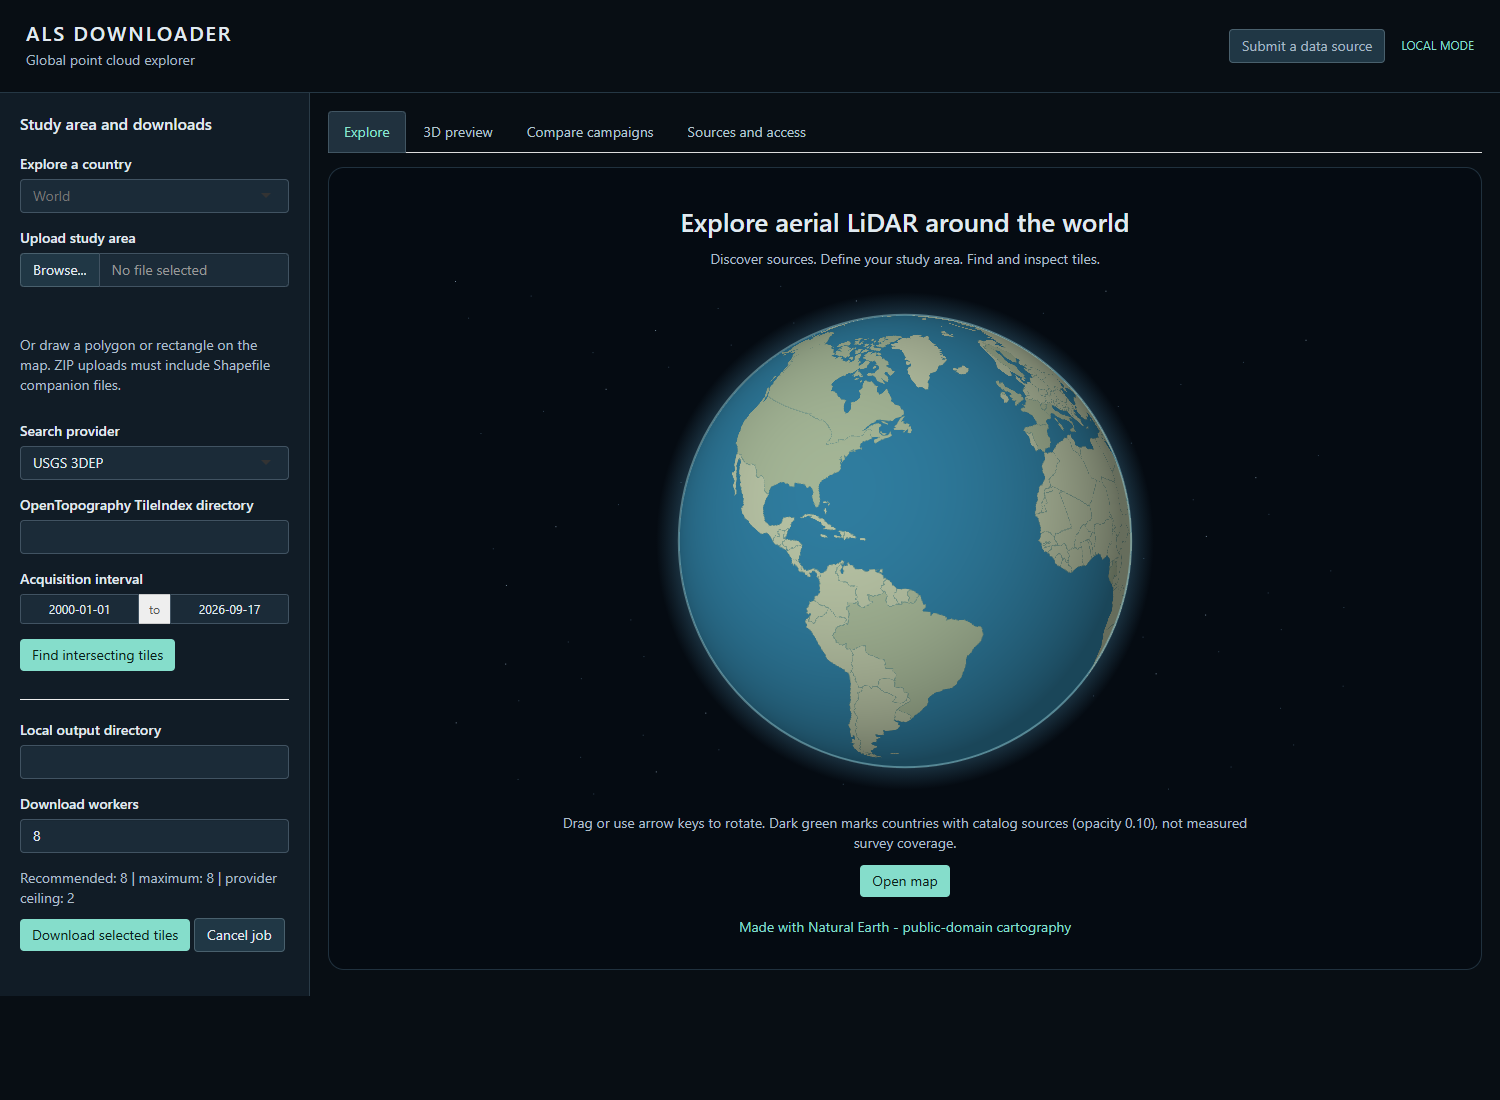
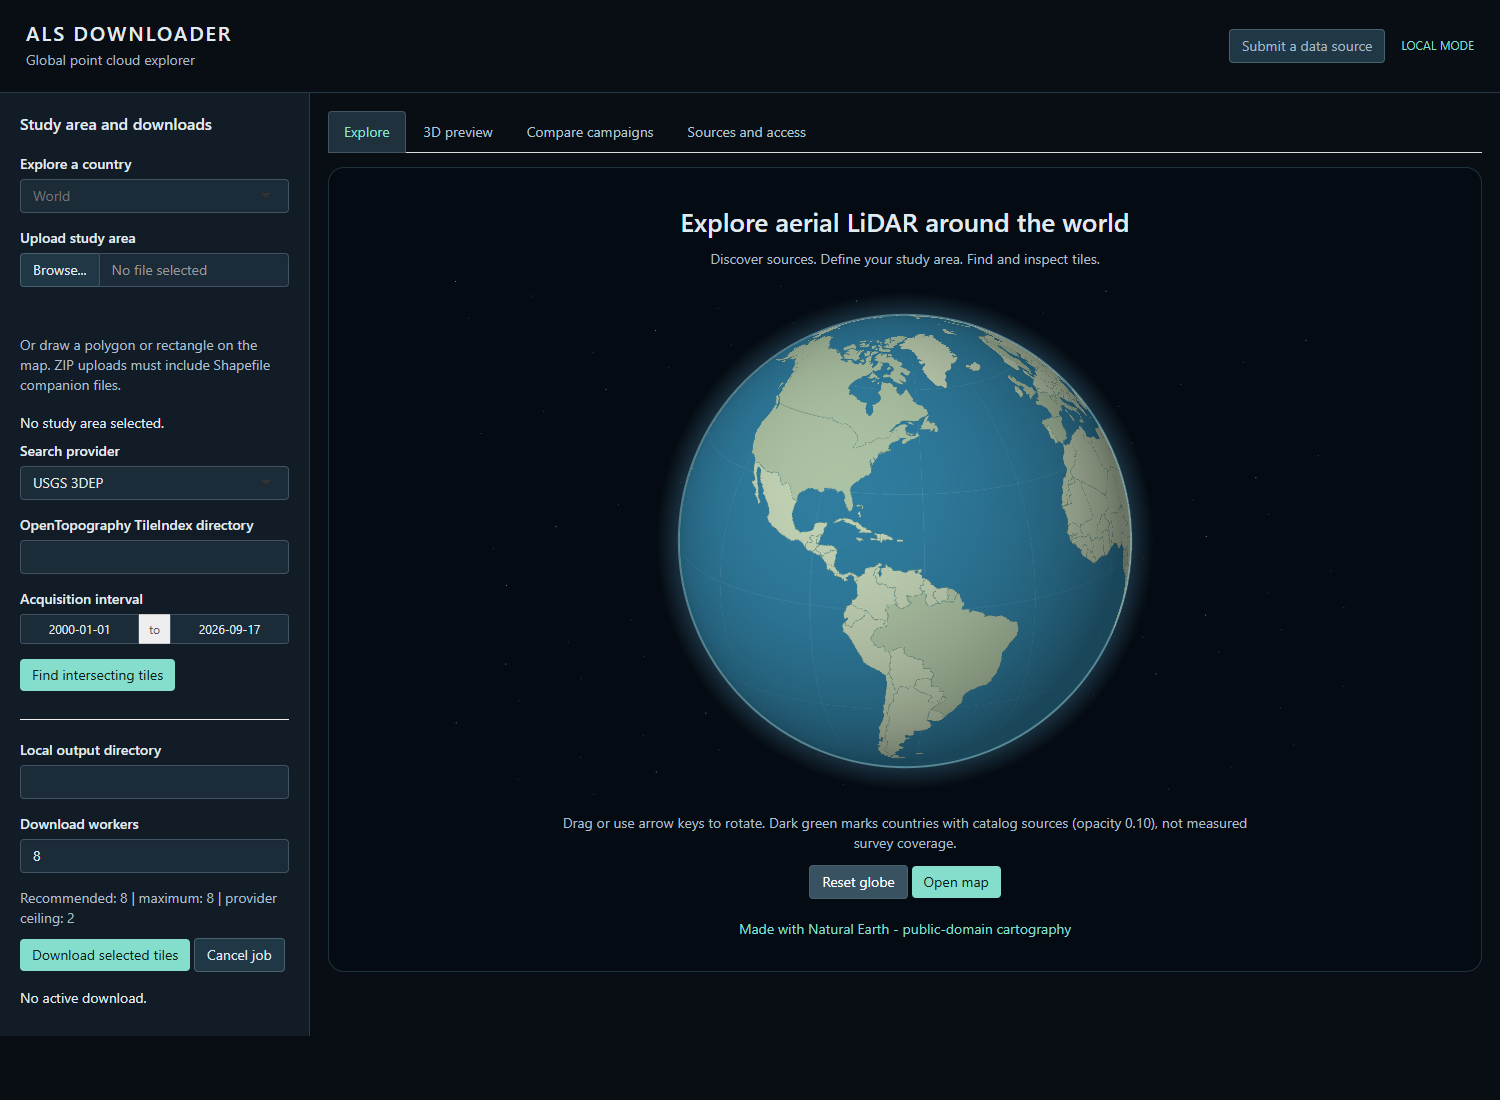
Use provider dates as supplied and refine globe controls

Changed region(s): [[0.0, 0.3709, 0.2147, 0.9273], [0.4907, 0.2782, 0.7667, 0.7109], [0.4907, 0.7727, 0.7053, 0.8655]]

diff --git a/inst/app/www/globe.js b/inst/app/www/globe.js
@@ -5,6 +5,10 @@ document.addEventListener('DOMContentLoaded', async () => {
   const ctx=canvas.getContext('2d'), W=2048,H=1024;
   const texture=document.createElement('canvas');texture.width=W;texture.height=H;
   const t=texture.getContext('2d');t.fillStyle='#307fa2';t.fillRect(0,0,W,H);
+  // A subtle geographic grid gives rotation a readable geographic frame.
+  t.strokeStyle='rgba(184,223,238,0.15)';t.lineWidth=1;t.beginPath();
+  for(let x=0;x<W;x+=W/12){t.moveTo(x,0);t.lineTo(x,H);}
+  for(let y=H/6;y<H;y+=H/6){t.moveTo(0,y);t.lineTo(W,y);}t.stroke();
   const countries=new Set(canvas.dataset.countries.split(',').map(Number));
   let pixels,lon=-65,lat=18,drag=null,pending=false;
   function ring(coords,shift){
@@ -18,7 +22,7 @@ document.addEventListener('DOMContentLoaded', async () => {
     const world=await response.json();
     for(const f of world.features){
       const polys=f.geometry.type==='Polygon'?[f.geometry.coordinates]:f.geometry.coordinates;
-      for(const poly of polys)for(const shift of [-360,0,360]){t.beginPath();poly.forEach(coords=>ring(coords,shift));t.fillStyle='#bac6a7';t.fill('evenodd');
+      for(const poly of polys)for(const shift of [-360,0,360]){t.beginPath();poly.forEach(coords=>ring(coords,shift));t.fillStyle='#c4d5b7';t.fill('evenodd');
         if(countries.has(Number(f.id))){t.fillStyle='rgba(0,64,32,0.10)';t.fill('evenodd');}
         t.strokeStyle='#6c958b';t.lineWidth=.65;t.stroke();}
     }
@@ -45,6 +49,8 @@ document.addEventListener('DOMContentLoaded', async () => {
   canvas.onpointerdown=e=>{drag=[e.clientX,e.clientY];canvas.setPointerCapture(e.pointerId);canvas.focus();};
   canvas.onpointermove=e=>{if(!drag)return;lon-=(e.clientX-drag[0])*.35;lat=Math.max(-75,Math.min(75,lat+(e.clientY-drag[1])*.25));drag=[e.clientX,e.clientY];redraw();};
   canvas.onpointerup=canvas.onpointercancel=()=>drag=null;
-  canvas.onkeydown=e=>{if(!e.key.startsWith('Arrow'))return;e.preventDefault();lon+=e.key==='ArrowLeft'?-10:e.key==='ArrowRight'?10:0;lat=Math.max(-75,Math.min(75,lat+(e.key==='ArrowUp'?10:e.key==='ArrowDown'?-10:0)));redraw();};
+  function reset(){lon=-65;lat=18;redraw();}
+  document.getElementById('globe_reset').onclick=reset;
+  canvas.onkeydown=e=>{if(e.key==='0'){e.preventDefault();reset();return;}if(!e.key.startsWith('Arrow'))return;e.preventDefault();lon+=e.key==='ArrowLeft'?-10:e.key==='ArrowRight'?10:0;lat=Math.max(-75,Math.min(75,lat+(e.key==='ArrowUp'?10:e.key==='ArrowDown'?-10:0)));redraw();};
   new ResizeObserver(redraw).observe(canvas);
 });

diff --git a/docs/TEMPORAL_COMPARISON.md b/docs/TEMPORAL_COMPARISON.md
@@ -6,9 +6,9 @@ The application links existing source archives; it does not publish or permanent
 ## Workflow
 
 1. Draw/upload a small AOI and search a date interval that includes both surveys.
-2. Open **Compare campaigns**. Choose **A** as the reference and **B** as the later campaign.
+2. Open **Compare campaigns**. Choose reference **A** and comparison **B**. B need not be later than A.
    The options identify the source project, acquisition interval and number of intersecting tiles.
-   Unknown dates and invalid source intervals remain explicit; project-name years are not substituted for acquisition metadata.
+   Provider dates are displayed unchanged; project-name years are not substituted. The app does not independently validate or correct acquisition years.
 3. Choose the grid resolution and the minimum point count per cell in each campaign, then **Load and compare AOI**.
 4. Inspect the overlaid clouds. Set A and B independently to Cyan, Orange, Viridis, Magma, Plasma or Cividis;
    hide either cloud, orbit, zoom and adjust the explicitly labelled vertical exaggeration.
@@ -49,7 +49,7 @@ and the metadata for the particular surveys.
 
 | Check | Current behavior |
 |---|---|
-| Dates | Unknown, invalid or overlapping acquisition intervals prevent temporal-difference output. A must finish before B starts. |
+| Dates | Provider metadata is displayed unchanged. Missing, inconsistent, overlapping or reversed intervals do not block B-minus-A differences. The user chooses the campaign order. |
 | Vertical reference | Explicit matching user-entered references and verification are required; this acknowledgement is not automated verification. |
 | AOI | Maximum 0.25 km². |
 | Transfers | At most four tiles and 200 MB per campaign; maximum 100 MB per tile, known HTTP size required. Sequential downloads, shared hosted transfer lock. |
@@ -64,6 +64,6 @@ point counts, AOI geometry, software version and export time. Keep it with the C
 ## Validation
 
 Controlled tests cover known +3 m, −2 m and zero differences, missing coverage, low point counts, shared-origin preservation,
-different CRS definitions, invalid/unknown dates, date overlap and unverified/mismatched vertical references.
+different CRS definitions and unverified/mismatched vertical references. Tests confirm that inconsistent/unknown dates and date overlap do not block differences.
 A clearly labelled synthetic browser fixture verifies the difference plot, CSV/JSON export and invalidation when the vertical reference changes.
 Synthetic offsets are not evidence of real landscape change. See [validation history](VALIDATION.md) for live-provider checks and limitations.

diff --git a/docs/HURRICANE_MICHAEL.md b/docs/HURRICANE_MICHAEL.md
@@ -2,6 +2,8 @@
 
 Checked 17 September 2026 near Mexico Beach, Florida, at longitude -85.418, latitude 29.948.
 
+This is a historical, one-off investigation. The application uses provider dates unchanged and does not independently verify or correct years or block comparison because of date inconsistencies.
+
 ## Verified post-event aerial tile
 
 The [NOAA / USACE source record](https://www.fisheries.noaa.gov/inport/item/54682) identifies an airborne CZMIL topobathymetric survey acquired **24 October–4 November 2018**. This is laser scanning, including land and seabed points.
@@ -31,4 +33,4 @@ Neither the project-name year nor this single-day catalog value has been indepen
 Do not label this tile pre-/post-Michael from its filename or catalog timestamp alone. This is a different survey from the NOAA tile above; no date correction was inferred or applied.
 [Recorded catalog response](michael-stac-check.json).
 
-The app currently displays provider-reported dates. A syntactically valid interval is not independent acquisition-date verification. Source survey metadata and, where available, correctly interpreted point GPS time must be checked before an event-based comparison.
+The app displays provider-reported dates. This historical investigation does not create an acquisition-date verification requirement in the app; interpretation of the selected campaigns remains with the user.

diff --git a/docs/VALIDATION.md b/docs/VALIDATION.md
@@ -136,3 +136,13 @@ Palette switching and 390 px layouts passed without JavaScript errors. Country s
 not survey coverage. The globe uses bundled Natural Earth / World Atlas outlines with an original canvas
 renderer; the basemap still requires its external imagery service. The duplicate map figure was removed
 from the README and replaced by one refreshed satellite capture with A–F annotations.
+
+## Provider dates and globe refinement — 17 September 2026
+
+The application now displays provider dates unchanged and does not independently validate years.
+The previous chronological comparison gate is removed: unknown, inconsistent and overlapping intervals
+no longer block B-minus-A output. Spatial/vertical compatibility and point-count checks remain.
+The 105 package assertions passed, including updated date-policy checks, with the existing dependency warnings.
+Browser checks verified globe rotation, button and keyboard reset, mobile width and the provider-date
+explanation without page errors. The README still contains exactly three figures; the globe screenshot
+is retained only as a separate documentation asset.

diff --git a/README.md b/README.md
@@ -53,7 +53,7 @@ Use **Forest close-up and display sampling** to adjust the window, point density
 For two epochs, use **Compare campaigns**; see the [comparison method and limitations](docs/TEMPORAL_COMPARISON.md).
 Colors show source elevation, **not canopy height**. Confirm coordinate units and vertical datum.
 
-Dates in search results are provider-reported metadata. Acquisition dates, file creation dates and publication dates can differ. A [coastal Hurricane Michael tile check](docs/HURRICANE_MICHAEL.md) verified a NOAA point sample from **24 October 2018** and documented an unresolved date discrepancy in a separate USGS catalog tile.
+Dates are shown as supplied by each provider, without independent year verification or correction. Unknown, overlapping or inconsistent provider dates do not block comparison; the difference is always **B minus A** in the order selected by the user.
 
 ## Data sources
 

diff --git a/NEWS.md b/NEWS.md
@@ -1,5 +1,8 @@
 # alsdownloader 0.1.0.9001
 
+* Use provider dates unchanged without independent year verification or chronological restrictions on B-minus-A comparisons; retain spatial compatibility checks.
+* Refine the globe colors and geographic grid, and add button/keyboard reset controls. The README retains exactly three figures.
+
 * Limit the README to three figures: annotated main map, 3D preview and source submission form. Record a decoded coastal post-Michael tile and distinguish acquisition, file creation and catalog dates.
 
 * Add a rotatable welcome globe rendered from bundled Natural Earth cartography; catalog countries use a dark-green 0.10-opacity tint. Open map continues to AOI discovery.
